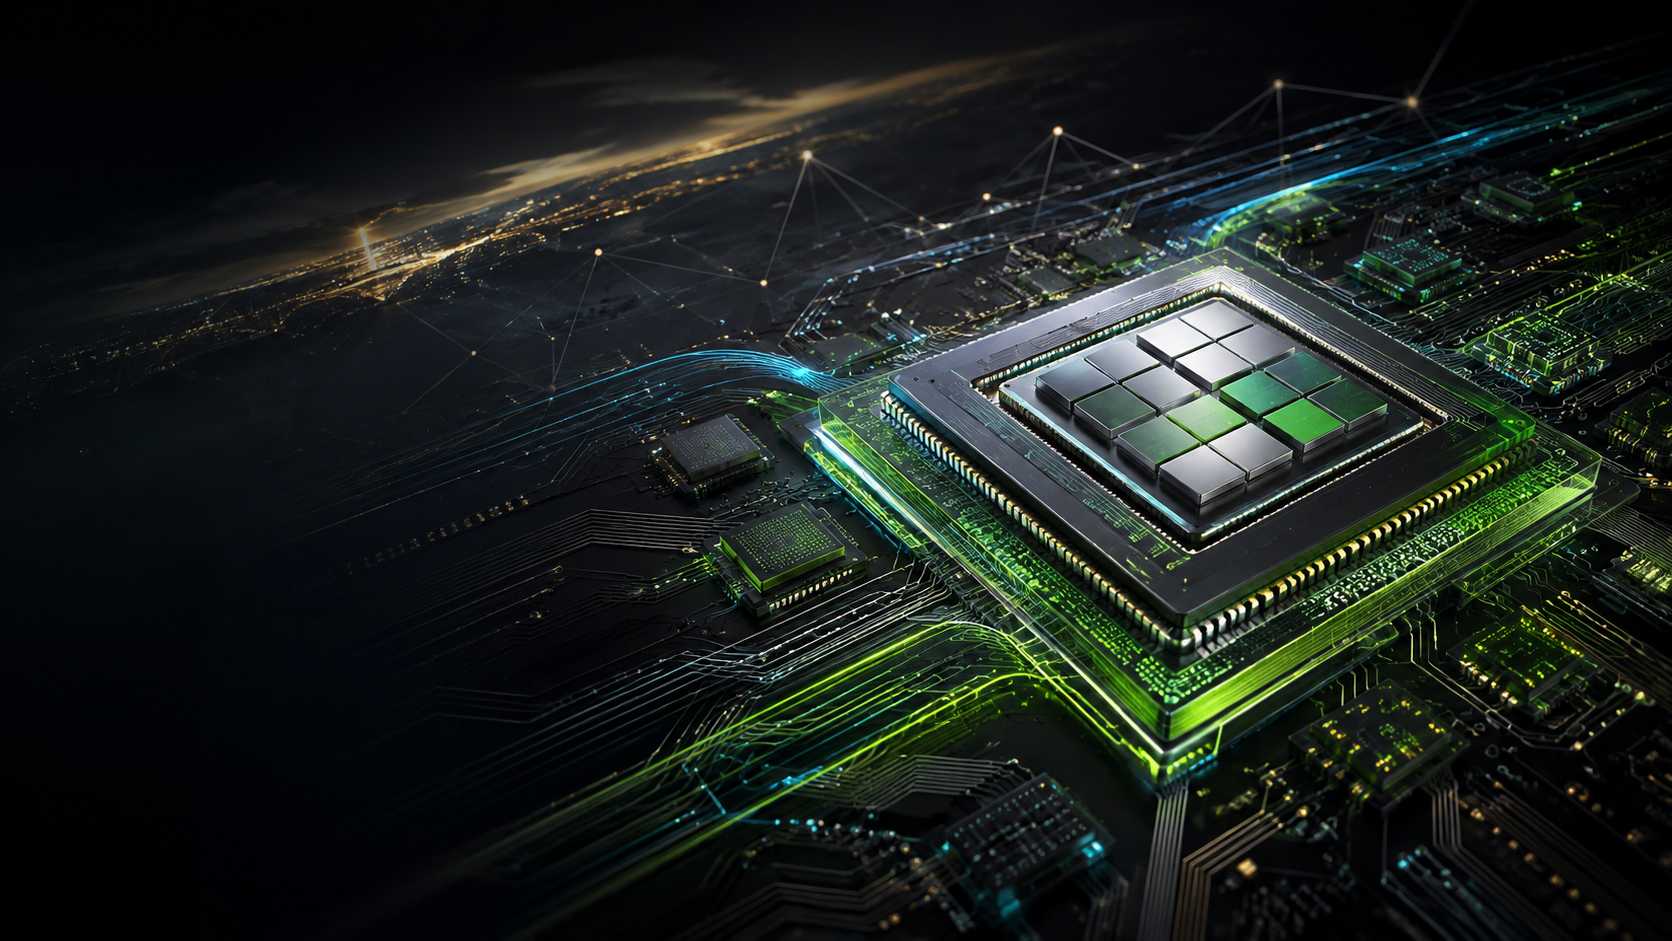
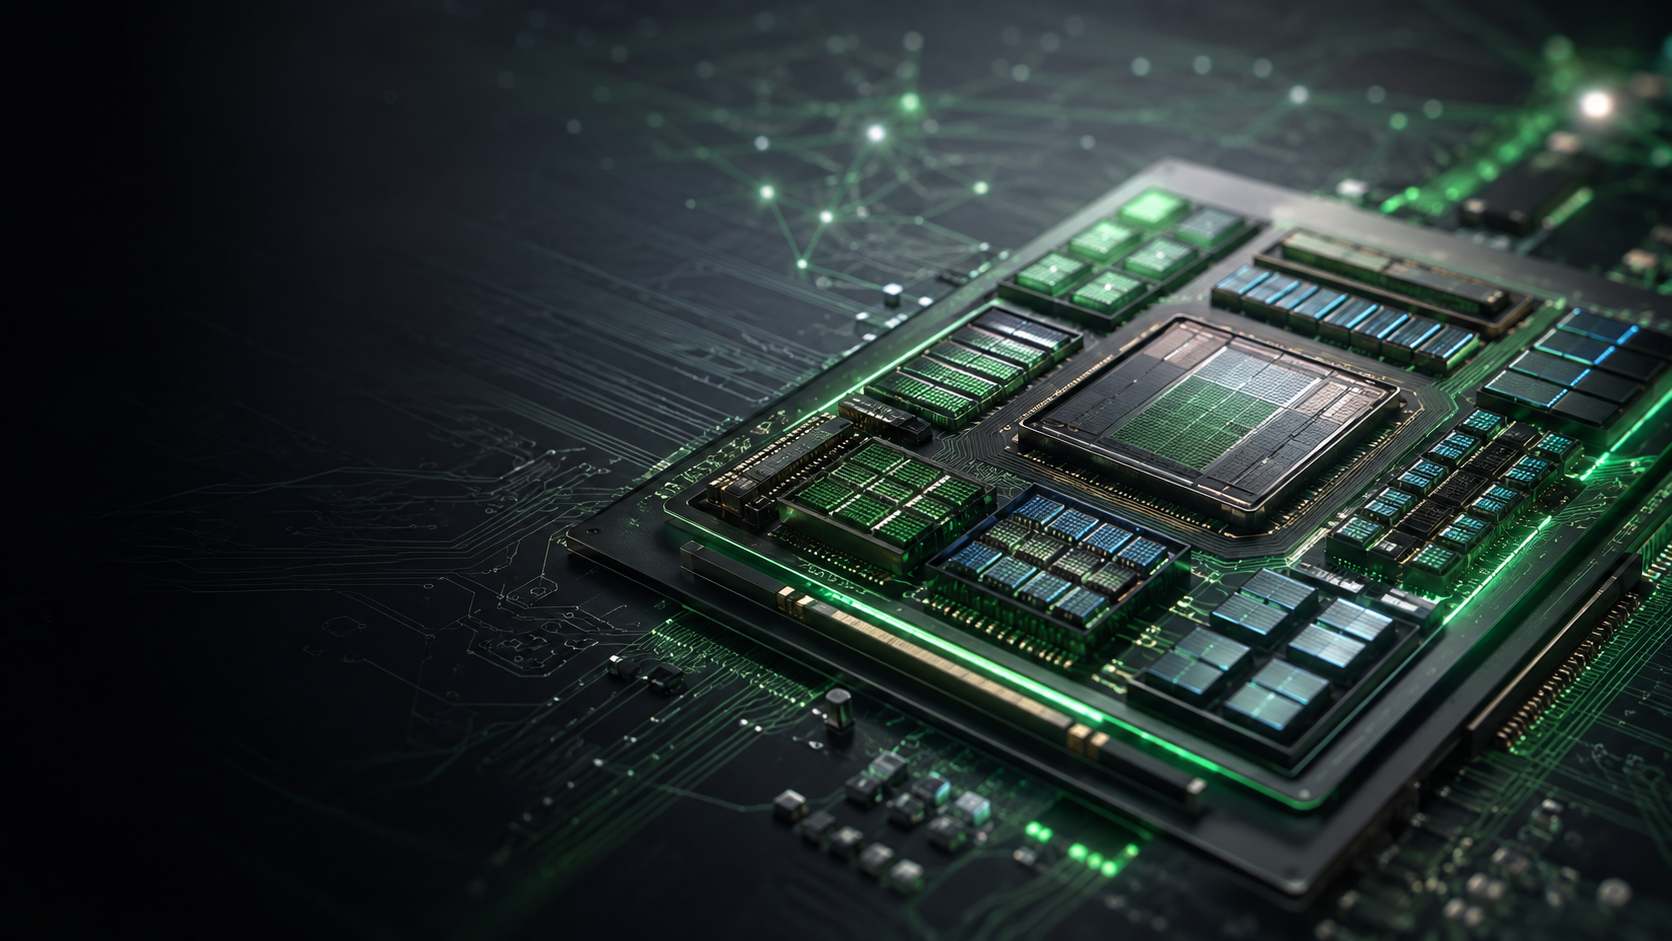
modified:   slides/index.json modified:   slides/prompt.md modified:   slides/riscv.png new file:   slides/verif.png

diff --git a/slides/prompt.md b/slides/prompt.md
@@ -21,13 +21,24 @@ Place the main chip toward the right side and preserve calm negative space on th
 **Negative prompt:**  
 Any text, letters, numbers, labels, captions, slogans, logos, icons, diagrams, UI panels, infographic elements, code, watermark, border, frame, excessive empty space, obscured chip surface, hidden or unreadable circuit traces, distorted chip, unrealistic MEMS structures, cluttered circuit board, excessive neon glow, oversaturated colors, cartoon style, blurry details, low-resolution rendering.
 
-### RISC-V Image Prompt
+### RISC-V AI Accelerator Image Prompt
 
-Create a premium full-bleed 16:9 hero image for a professional open-standard processor and semiconductor design company. Show a realistic advanced processor chip in a three-quarter perspective, positioned mainly on the right side, surrounded by intricate circuit-board traces and subtle streams of light representing an open, scalable computing ecosystem.
+Create a premium full-bleed 16:9 hero image for a professional open-standard processor and semiconductor design company specializing in custom RISC-V instruction set extensions for AI accelerators. Show a realistic advanced processor chip in a three-quarter perspective, positioned mainly on the right side, with a central compute die surrounded by custom AI acceleration blocks, tensor and matrix compute clusters, vector processing lanes, tightly coupled memory, and circuit traces that suggest extensible instruction execution for high-performance inference, computer vision, and edge AI workloads.
 
-Visually communicate openness, modularity, flexibility, innovation, and global collaboration without using any text or symbols. Use abstract connected nodes, modular processor blocks, expandable circuit paths, layered architecture structures, and a refined distant landscape or horizon suggesting a broad technological future. The processor should feel powerful, efficient, secure, and ready for many applications including embedded systems, automotive electronics, industrial control, edge computing, and artificial intelligence.
+Visually communicate customizability, performance, programmability, efficiency, and AI acceleration without using any text or symbols. Use abstract connected nodes, modular processor tiles, expandable acceleration pipelines, layered compute architecture, memory-to-core data flows, and subtle horizon or network motifs representing a scalable, collaborative AI ecosystem. The processor should feel powerful, energy-efficient, secure, and purpose-built for embedded AI, automotive intelligence, industrial automation, robotics, edge inference, and real-time analytics.
 
-Use a sophisticated black and graphite background with controlled electric-green illumination, subtle warm-white highlights, and restrained cyan accents. Keep the main processor and key circuitry inside the central safe area, away from every edge. Leave clean negative space on the left for a responsive text overlay, while keeping the outer 20% visually simple and safe to crop. Full-bleed composition, no borders, no frame, no letterboxing, realistic materials, cinematic semiconductor photography, premium corporate technology aesthetic, sharp focus, balanced asymmetrical composition, 16:9 aspect ratio.
+Use a sophisticated black and graphite background with controlled electric-green illumination, subtle warm-white highlights, and restrained cyan accents. Emphasize custom RISC-V extension logic as integrated AI instruction pathways and domain-specific vector or matrix micro-operations within the chip and surrounding board. Keep the main processor and AI acceleration structures inside the central safe area, away from every edge. Leave clean negative space on the left for a responsive text overlay, while keeping the outer 20% visually simple and safe to crop. Full-bleed composition, no borders, no frame, no letterboxing, realistic materials, cinematic semiconductor photography, premium corporate technology aesthetic, sharp focus, balanced asymmetrical composition, 16:9 aspect ratio.
 
 **Negative prompt:**  
-Any text, letters, numbers, labels, captions, slogans, logos, RISC-V wordmark, trademark symbols, icons, code, diagrams, UI panels, infographic layout, watermark, border, frame, excessive empty space, distorted processor, warped circuitry, duplicated components, excessive neon glow, oversaturated green, generic sci-fi interface, cartoon style, blurry details, low-resolution rendering.
+Any text, letters, numbers, labels, captions, slogans, logos, RISC-V wordmark, trademark symbols, icons, code, diagrams, UI panels, infographic layout, watermark, border, frame, excessive empty space, distorted processor, warped circuitry, duplicated components, excessive neon glow, oversaturated green, generic sci-fi interface, generic GPU-like cooling shroud, oversized AI brain imagery, cartoon style, blurry details, low-resolution rendering.
+
+### Design Verification Image Prompt
+
+Create a premium full-bleed 16:9 hero image for a professional semiconductor design verification company. Show a realistic advanced SoC or processor chip in a three-quarter perspective positioned mainly on the right side, with active verification instrumentation, debug traces, protocol lanes, state-machine paths, burst data signals, clock domains, and logic convergence around the die. Include subtle visual cues of hardware validation: waveform-like signal transitions, timing checks, coverage heat patterns, handshake activity, and trace paths that suggest rigorous block-level and system-level verification without appearing like a generic diagram.
+
+Use a sophisticated black and graphite background with restrained electric-green signal illumination, cool cyan highlights, and a few warm-white accents to suggest precision and confidence. The composition should feel like a real hardware lab or silicon validation environment: engineered, fast, methodical, and reliable, with concentrated detail in the central safe area and generous calm negative space on the left for a headline overlay. Emphasize logic correctness, systematic debugging, signal integrity, and deadlock prevention visually through intricate, believable circuitry and clear motion through the chip and surrounding traces.
+
+The image should feel premium, high-end, and trustworthy, communicating verification discipline, silicon confidence, and early bug discovery. Full-bleed composition, no borders, no frame, no letterboxing, realistic materials, cinematic semiconductor photography, polished hardware aesthetic, high detail, sharp focus, balanced asymmetrical composition, 16:9 aspect ratio.
+
+**Negative prompt:**
+Any text, typography, letters, numbers, labels, captions, slogans, logos, icons, code, UI panels, infographic layout, watermark, border, frame, excessive empty space, distorted processor or SoC, warped traces, duplicated components, cluttered board, obvious diagram overlays, generic sci-fi interface, cartoon style, oversaturated green, excessive glow, blurred details, low-resolution rendering, unrealistic chip geometry.
